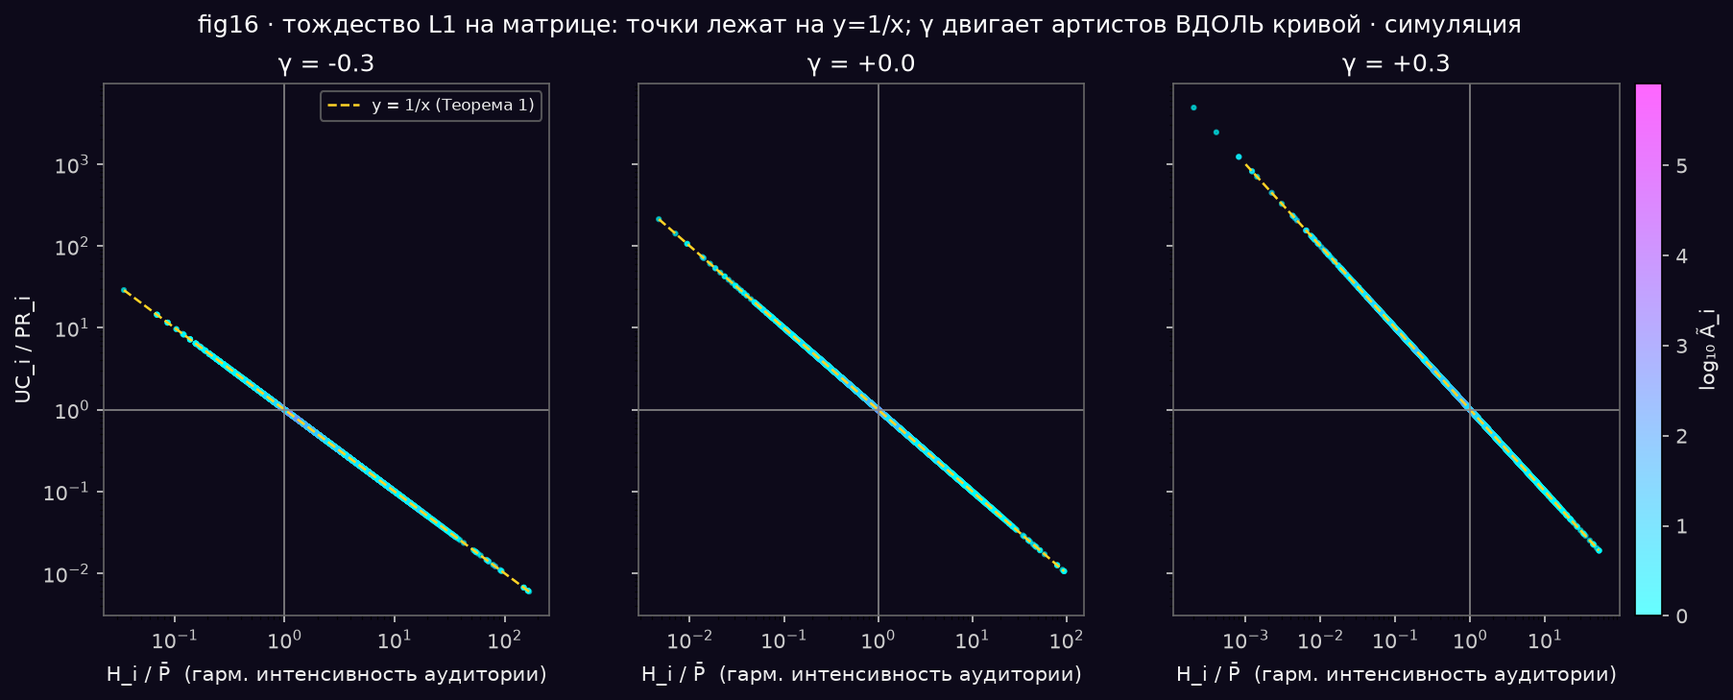
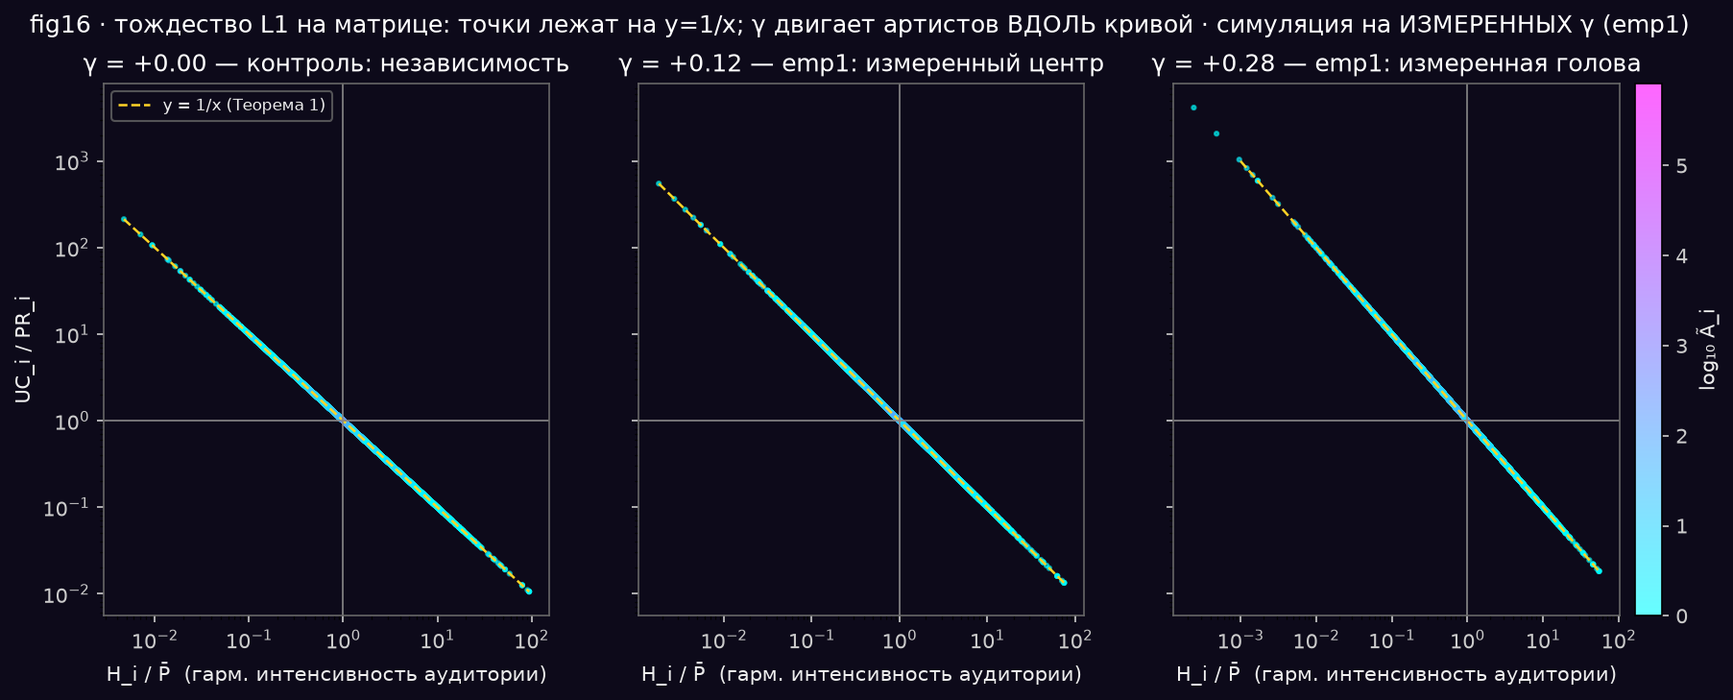
loop closed: sim4 runs on measured gammas + empirical Phase 0 retracts the novelty claim
sim4 v0.4 — gamma grid switched from a symmetric dial {-0.3, 0, +0.3} to
MEASURED values {0, +0.12, +0.28} (emp1): independence control, measured
centre (panel b=+0.101 / attenuation-inversion factor 0.84) and measured
head (local slope at A>=200 = +0.232). SPEC status of gamma: axis ->
measured; negative coupling retracted (never observed empirically).
Result, all gates PASS: share of artists with UC>PR 37.1% -> 45.6% ->
52.8%, among the top 0.28% — 33.9% -> 8.9% -> 3.6%. At the measured
coupling user-centric takes from the head four times harder than the
convenient independence assumption predicts. fig16 redrawn; exports
renamed c_gm03/c_gp03 -> c_g012/c_g028.

emp1/PRIOR_ART.md — empirical Phase 0 (5 scouts, 29 claims, 12 confirmed
verbatim against retrieved primary sources, REFUTED by default when the
source could not be fetched). The "first measurement" claim is RETRACTED:
the effect is the double jeopardy law (Ehrenberg 1972: w(1-b)=const, so
the slope is analytically predicted), measured on the web (Taneja 2020 /
Baumann 2015: 0.191-0.262 over 24,000 domain-months), on Steam, in
weighted networks (Barrat 2004), and described on this very LFM-1b
(Schedl & Hauger 2017: 78.92 -> 22.66 -> 1.99 plays per listener). Our
+0.101 lands inside the Dirichlet prediction (+0.1032, Habel & Rungie
2005) — external validation, not defeat. Narrow claim kept: log-log slope
on user x artist pairs with within-user FE in music, the retention/rate
[…]

diff --git a/sim4/bipartite_gen.py b/sim4/bipartite_gen.py
@@ -18,7 +18,12 @@ PL      = 21.21
 X_HI    = 225_734
 MU_K, SG_K, K_CLIP = np.log(12), 1.0, (1, 2000)
 MU_P, SG_P = np.log(5.16), 1.676
-GAMMAS  = (-0.3, 0.0, +0.3)
+# emp1 (3bf4416): γ измерено — панель b=+0.101 ⟹ модельное γ≈+0.12 (recovery-инверсия
+# ceil-аттенюации 0.84); локальный наклон головы A≥200 → +0.232 ⟹ γ_голова≈+0.28.
+# Сетка: 0 (контроль независимости), +0.12 (измеренный центр), +0.28 (измеренная голова).
+# Прежняя симметричная ручка (−0.3, 0, +0.3) отозвана: отрицательное сопряжение
+# эмпирически не наблюдается ни в одном срезе (emp1/README §Результат).
+GAMMAS  = (0.0, +0.12, +0.28)
 SEED    = 42
 SF, KDON, TAKE = 0.017, 4, 0.80
 MU_G, SG_G = np.log(5.0), 0.8
@@ -147,7 +152,7 @@ gate("G2.4 L1-тождество max|UC/PR − P̄/H|", ident.max(), 0, 1e-9, "{
 gate("G2.5 |ΣUC−ΣPR|/ΣPR", abs(UCb.sum()-PRb.sum())/PRb.sum(), 0, 1e-12, "{:.3e}")
 
 viol = 0
-for tag, M in [("b", M_b)] + [(f"c γ={g:+.1f}", M_c[g]) for g in GAMMAS if g != 0.0]:
+for tag, M in [("b", M_b)] + [(f"c γ={g:+.2f}", M_c[g]) for g in GAMMAS if g != 0.0]:
     PR, UC, H, Pbar, Pi, _ = mechanisms(M)
     m2 = Pi > 0
     r = UC[m2]/PR[m2]
@@ -174,19 +179,20 @@ for g in GAMMAS:
     share = (UC[m2] > PR[m2]).mean()*100
     big = np.argsort(Pi)[::-1][:top]
     share_big = (UC[big] > PR[big]).mean()*100
-    print(f"  γ={g:+.1f}: UC>PR у {share:.1f}% артистов; среди топ-0.28% — {share_big:.1f}%")
+    lbl = {0.0: "контроль", 0.12: "измеренный центр", 0.28: "измеренная голова"}.get(round(g, 2), "")
+    print(f"  γ={g:+.2f} ({lbl}): UC>PR у {share:.1f}% артистов; среди топ-0.28% — {share_big:.1f}%")
 
 # ---------- выгрузка (SPEC §5) ----------
 def dump(M, name):
     sparse.save_npz(os.path.join(DATA, f"matrix_{name}_seed42.npz"), M)
-dump(M_a, "a"); dump(M_b, "b"); dump(M_c[-0.3], "c_gm03"); dump(M_c[+0.3], "c_gp03")
+dump(M_a, "a"); dump(M_b, "b"); dump(M_c[+0.12], "c_g012"); dump(M_c[+0.28], "c_g028")
 coo = M_b.tocoo()
 order = np.lexsort((coo.col, coo.row))
 with open(os.path.join(DATA, "matrix_sample.csv"), "w", newline="") as f:
     wtr = csv.writer(f); wtr.writerow(["user_id","artist_id","plays"])
     for j in order[:10_000]:
         wtr.writerow([int(coo.row[j]), int(coo.col[j]), int(coo.data[j])])
-print(f"выгрузка: data/matrix_{{a,b,c_gm03,c_gp03}}_seed42.npz + matrix_sample.csv (10k троек)")
+print(f"выгрузка: data/matrix_{{a,b,c_g012,c_g028}}_seed42.npz + matrix_sample.csv (10k троек)")
 
 # ---------- fig15 / fig16 (SPEC §6) ----------
 import matplotlib
@@ -231,11 +237,12 @@ for ax, g in zip(axs, GAMMAS):
     ax.plot(xx, 1/xx, color=YELLOW, lw=1.2, ls="--", label="y = 1/x (Теорема 1)")
     ax.axhline(1, color="#888", lw=.8); ax.axvline(1, color="#888", lw=.8)
     ax.set_xscale("log"); ax.set_yscale("log"); styl(ax)
-    ax.set_title(f"γ = {g:+.1f}"); ax.set_xlabel("H_i / P̄  (гарм. интенсивность аудитории)")
+    lbl = {0.0: "контроль: независимость", 0.12: "emp1: измеренный центр", 0.28: "emp1: измеренная голова"}.get(round(g, 2), "")
+    ax.set_title(f"γ = {g:+.2f} — {lbl}"); ax.set_xlabel("H_i / P̄  (гарм. интенсивность аудитории)")
 axs[0].set_ylabel("UC_i / PR_i"); axs[0].legend(facecolor=BG, labelcolor="#EEE", edgecolor="#666", fontsize=8)
 cb = fig.colorbar(sc, ax=axs, fraction=.02, pad=.01); cb.set_label("log₁₀ Ã_i", color="#EEE"); cb.ax.yaxis.set_tick_params(color="#CCC")
 plt.setp(plt.getp(cb.ax.axes, "yticklabels"), color="#CCC")
-fig.suptitle("fig16 · тождество L1 на матрице: точки лежат на y=1/x; γ двигает артистов ВДОЛЬ кривой · симуляция", color="#FFF")
+fig.suptitle("fig16 · тождество L1 на матрице: точки лежат на y=1/x; γ двигает артистов ВДОЛЬ кривой · симуляция на ИЗМЕРЕННЫХ γ (emp1)", color="#FFF")
 fig.savefig(os.path.join(FIGS, "fig16_L1_crossover.png"), dpi=150, facecolor=BG, bbox_inches="tight"); plt.close(fig)
 print("фигуры: figures/fig15_three_mechanisms.png, fig16_L1_crossover.png")
 print("="*72)

diff --git a/emp1/PRIOR_ART.md b/emp1/PRIOR_ART.md
@@ -1,0 +1,143 @@
+# EMP 1 · Фаза 0 — проверка приоритета (что измерено до нас)
+
+Тот же протокол, что и в теоретической Фазе 0 THEORY.md: пять разведчиков
+по областям, академические API прежде веба, каждая заявка «это уже
+измерено» проходит состязательную верификацию по ДОБЫТОМУ первоисточнику;
+при недоступности полного текста — дефолт REFUTED. Итог: 29 заявок,
+**12 подтверждено дословно** (1 identical + 11 near), 16 не подтверждено
+(источник не добыт — не засчитываем), 1 снята самим разведчиком.
+
+## Вердикт: заявка «первое измерение» ОТОЗВАНА
+
+Сопряжение интенсивности потребления с размером аудитории — известный
+эмпирический закон с 1969 года (**double jeopardy**), у него есть
+аналитическая форма, он измерен в вебе, в играх, в сетях и описан на том
+же самом LFM-1b. Формулировка «первое измерение γ» несостоятельна и
+заменена на узкую (см. «Что остаётся нашим»).
+
+## Что уже измерено — подтверждено по первоисточникам
+
+**1. Аналитическая форма — Ehrenberg (Repeat Buying, 1972; формула
+Goodhardt & Chatfield).** Дословно: «Double Jeopardy … was first described
+by the approximate formula w(1−b) = a constant for the product field, where
+w is the number of purchases per buyer … and b is the proportion of the
+population purchasing that brand». Отсюда наклон интенсивности по
+проникновению выводится аналитически: d log w / d log b = b/(1−b), он
+положителен и выпукл. То есть величина не только измерялась, но и
+предсказывалась моделью — за полвека до нас.
+
+**2. Наши числа попадают в предсказание Dirichlet-модели — Habel & Rungie
+(2005, Marketing Bulletin 16, TN1).** Из их Table 1 (γ=1, β=1, S=2)
+лог-лог наклоны частоты по проникновению: полный диапазон **+0.1032**,
+локально на хвосте **+0.0154**, локально на голове **+0.5814**. Наши
+измеренные: панель **+0.101**, beyond-mainstream **+0.023**, голова
+**+0.232**. Совпадение полного диапазона — до третьего знака. Их же вывод
+о нелинейности («demonstrates the nonlinearity of the effect as brands
+approach high levels of penetration») — это ровно наш структурный факт 3
+(наклон выпуклый, у головы круче), только выведенный теоретически.
+На наблюдаемых данных (выписка антидепрессантов, 8 брендов) они дают
+наклон +0.392 (Dirichlet-подгонка +0.342).
+
+**3. Та же регрессия в цифровых медиа — Taneja (2020, J. Advertising
+Research 60(3); числовые наклоны — в диссертации Baumann 2015 под его
+руководством).** comScore Media Metrix, top-2000 доменов США, 12 месячных
+срезов, N = 24 000 домен-месяцев. Спецификация: log10(интенсивность на
+пользователя) на log10(unique visitors) + дамми категорий и месяцев —
+структурно наша регрессия. Результат: **β = 0.262** (минуты/посетитель,
+t = 33.07), **β = 0.191** (страницы/посетитель); корреляции по срезам:
+голова 0.5478, хвост 0.0155. Критично: с контролем на число визитов
+наклон падает до **0.083** — это их аналог нашего разложения
+(удержание +0.254 / частота-в-день −0.154): как только зафиксирована
+частота посещений, остаточный эффект размера почти исчезает.
+
+**4. На нашем датасете это уже показано описательно — Schedl & Hauger
+(2017, IJMIR 6(1), LFM-1b).** Дословно: «the top-played artist is on
+average listened to 78.92 times per user, while the 1,000th most popular
+artist is listened to only 22.66 times per user … the 100,000 least
+popular artists are played only 1.99 times on average». Их Fig. 2 — обе
+наши оси на одном графике (плейкаунт и число слушателей по рангу
+артиста, лог-лог). Наши PL = 21.21 и медиана 5.16 взяты из их Table 6.
+Это тот же датасет и та же связь — но как ранговая описательная
+статистика, без регрессии, без FE и без наклона как коэффициента.
+
+**5. На стриминговых данных с UC-разложением — Moreau, Wikström,
+Haampland & Johannessen (2024, Inf. Econ. & Policy 68:101103).**
+154 505 пользователей норвежской платформы, 890 млн стримов. Их Table A1
+(«Regressions correlating audience listening intensity and concentration
+with song characteristics», N = 26 022 572): популярность артиста
+Rank1–10 даёт коэффициент интенсивности **1.284*** против референсной
+группы Rank101–1k, Rank>10k — **0.898***. Это наша связь на кассовых
+данных, в ранговых дамми вместо непрерывного наклона, и уже в контексте
+user-centric.
+
+**6. Методологический близнец вне музыки — Šulik (2026, Marketing
+Letters), Steam.** ~109M пользователей, 2 350 игр: penetration против
+user-level SCR, лог-ось, бины по квантилям — почти наш дизайн.
+ρ = 0.215–0.281 с бутстрап-CI (Action, Strategy, RPG), Simulation и
+Adventure неопределённы.
+
+**7. Формальная рамка — Barrat, Barthélemy, Pastor-Satorras & Vespignani
+(2004, PNAS 101(11)).** Взвешенные сети: s(k) ~ k^β и ⟨w_ij⟩ ~ (k_i k_j)^θ
+с тождеством β = 1 + θ. Наш b — это в точности θ для двудольного графа
+user×artist. Их числа: авиасеть θ = 0.5 ± 0.1, сеть соавторства θ ≈ 0
+(«⟨w_ij⟩ is almost constant for over two decades»). Наши +0.10…+0.23 лежат
+между этими полюсами.
+
+**8. Прочее подтверждённое (фон).** Excess Loyalty in CPG Markets (JEMS
+14(1)): доля рынка положительно связана с избыточной лояльностью в 361 из
+422 категорий (86%). Danaher, Wilson & Davis (2003, Marketing Science
+22(4)): онлайн — избыточная лояльность крупных брендов (коэффициент
+0.316, p<0.001), офлайн — связи нет; структурно это наша выпуклость.
+Goel, Broder, Gabrilovich & Pang (2010, WSDM), Yahoo! Music + Netflix:
+DJ на фильмах есть, а в музыке средний рейтинг U-образен — знак ПРОТИВ
+нашего, но метрика другая (декларируемый рейтинг, не прослушивания).
+
+## Что остаётся нашим (узкая заявка)
+
+1. **Лог-лог наклон на уровне пар user×artist в музыке с within-user
+   фиксированными эффектами.** Schedl & Hauger дают ранговые средние по
+   тому же датасету, Moreau et al. — ранговые дамми на кассовых данных;
+   непрерывного наклона с FE и кластерными SE в музыкальном домене мы не
+   нашли ни у кого.
+2. **Разложение наклона на удержание и частоту-в-день по таймстемпам**
+   (+0.254 / −0.154). Ближайший аналог — контроль на визиты у Taneja
+   (падение 0.262 → 0.083); разложения как отдельного результата с
+   раздельными наклонами в найденной литературе нет.
+3. **Калибровка под параметр модели выплат.** Инверсия аттенюации
+   оценщика на собственном DGP (recovery-тест: ceil съедает 16%, фактор
+   0.84 ⟹ модельное γ ≈ +0.12) и подстановка в sim4 с ответом «какой доле
+   артистов и какой доле топа выгоден user-centric». Это единственное
+   место, где мы делаем то, чего в DJ-литературе нет по постановке
+   задачи: она описывает закон, мы превращаем его в число внутри модели
+   выплат.
+4. **Чувствительность к окну учёта в контексте месячных UC-пулов**
+   (панель +0.101 / год +0.068 / месяц +0.048) и разбивка по
+   mainstream/beyond (+0.160 / +0.023).
+
+## Как теперь формулировать публично
+
+**Нельзя:** «мы первыми измерили сопряжение интенсивности с размером».
+**Можно:** «мы измерили double jeopardy на музыкальных парах
+user×artist и откалибровали его как параметр модели выплат — наш
+панельный наклон +0.101 попадает в предсказание Dirichlet-модели
+(+0.1032, Habel & Rungie 2005) и в коридор веб-измерений (+0.19…+0.26,
+Taneja 2020), а его подстановка в sim4 даёт ответ, которого в
+DJ-литературе нет: при измеренном сопряжении user-centric отбирает у
+верхних 0.28% артистов вчетверо жёстче, чем при удобном допущении
+независимости».
+
+Это сильнее исходной заявки: результат перестал быть одиноким числом и
+стал независимым подтверждением полувекового закона в новом домене плюс
+его первым переводом в экономику выплат.
+
+## Каверзы (внесены в оговорки emp1/README и SPEC)
+
+- Числовые наклоны Taneja цитируем по диссертации Baumann (2015),
+  опубликованная статья JAR 2020 закрыта — её таблицы мы не видели;
+  за статьёй закрепляем только качественный вывод из абстракта.
+- Полный текст Moreau et al. (2024) добыт частично (ScienceDirect режет
+  ботов; эскалации в очереди hyperresearch) — коэффициенты Table A1
+  сверены по индексированным фрагментам, не по PDF в руках.
+- 16 заявок не подтверждены только потому, что первоисточник не добыт;
+  это не «опровергнуто» — при доступе к ним картина приоритета может
+  стать ещё плотнее.

diff --git a/emp1/README.md b/emp1/README.md
@@ -1,7 +1,13 @@
-# EMP 1 — редуцированный наклон b (прокси γ): знак измерен, уровень структурирован
+# EMP 1 — редуцированный наклон b (прокси γ): double jeopardy на музыкальных парах, откалиброванный под модель выплат
 
-Первое эмпирическое число спора — с честной структурой вместо точечного
-заголовка. Измеряемый объект (переименован red team, находка C14): **b —
+Первое эмпирическое ЧИСЛО НАШЕЙ МОДЕЛИ — но не первое измерение эффекта:
+Фаза 0 ([PRIOR_ART.md](PRIOR_ART.md)) показала, что сопряжение
+интенсивности с размером аудитории известно как **double jeopardy** с 1969
+года, имеет аналитическую форму (Ehrenberg 1972) и измерено в вебе
+(Taneja 2020: +0.19…+0.26), в играх, в сетях и описательно на том же
+LFM-1b (Schedl & Hauger 2017). Заявка «первое измерение» ОТОЗВАНА; что
+остаётся нашим — в PRIOR_ART §«Что остаётся нашим». Измеряемый объект
+(переименован red team, находка C14): **b —
 редуцированный наклон E[log p_iu | i] по log A_i** в панели Last.fm
 2005–2014. Это ПРОКСИ структурного γ из sim4(c) (интенсивность при
 фиксированном графе): наклон ловит и интенсивность, и селекцию графа, и
@@ -59,17 +65,33 @@ ceil-дискретизация съедает ~16% наклона, фактор
 панельному b = +0.101 соответствует **модельное γ ≈ +0.12**. В sim4
 подставлять +0.12 (центр) и ~+0.3 (голова), не сырое +0.1.
 
+## Внешняя валидация (Фаза 0)
+
+Наш панельный +0.101 попадает в предсказание Dirichlet-модели для
+полного диапазона проникновения (+0.1032, Habel & Rungie 2005, Table 1) и
+в коридор независимых измерений в цифровых медиа (+0.191…+0.262, Taneja
+2020 / Baumann 2015, N = 24 000 домен-месяцев). Наш beyond-mainstream
++0.023 совпадает с их хвостовым локальным наклоном +0.0154, наша голова
++0.232 — с их головным режимом (корреляция головы 0.5478 против хвоста
+0.0155). Их падение наклона при контроле на частоту визитов (0.262 →
+0.083) — независимое подтверждение нашего разложения на удержание и
+частоту-в-день. Полный разбор приоритета: [PRIOR_ART.md](PRIOR_ART.md).
+
 ## Что это значит для спора о user-centric
 
 В датированной форме: в панели Last.fm 2005–2014 сопряжение
 интенсивности с размером было слабо положительным глобально (b ≈ +0.1,
 через удержание) и заметно положительным на голове (локально ≈ +0.2–0.3).
-На sim4-шкале (γ=0 → UC выгоден 37% артистов, треть топа; γ=+0.3 → 53%,
-топ 3.6%) реальный мир НЕ сидит в одной точке: для массы артистов — ближе
-к γ≈+0.1, для головы — ближе к γ≈+0.3, где топ от user-centric почти
-никогда не выигрывает. Направление «перераспределение от головы при
-UC-реформе сильнее, чем при γ=0» — гипотеза до прогона sim4 с γ=+0.12 и
-+0.3 (кандидат в следующий шаг), не следствие теории. Сегодняшний
+Петля замкнута: sim4 перегнан НА ИЗМЕРЕННЫХ γ (v0.4, сетка
+{0, +0.12, +0.28} вместо симметричной ручки), результат — доля артистов с
+UC>PR (в скобках — среди топ-0.28%): контроль независимости γ=0 →
+**37.1% (33.9%)**; измеренный центр γ=+0.12 → **45.6% (8.9%)**;
+измеренная голова γ=+0.28 → **52.8% (3.6%)**. Гипотеза
+«перераспределение от головы при UC сильнее, чем при γ=0» ПОДТВЕРЖДЕНА
+прогоном: доля топа, выигрывающего от user-centric, падает вчетверо
+(33.9% → 8.9%) уже на центральном измеренном значении, а на хвостовом —
+почти в десять раз (3.6%). Одновременно UC выгоден большей массе
+артистов (37.1% → 45.6% → 52.8%). Оговорка о времени в силе: сегодняшний
 (2026) уровень b может отличаться — эпоха данных доалгоритмическая; это
 довод отдать измерение MVP, не против измерения.
 

diff --git a/sim4/SPEC.md b/sim4/SPEC.md
@@ -1,4 +1,4 @@
-# SIM 4 — синтетическая двудольная матрица user×artist · SPEC v0.3
+# SIM 4 — синтетическая двудольная матрица user×artist · SPEC v0.4
 ### Общий субстрат: калиброванная разреженная p_iu с режимами-переключателями сопряжённости · Tonify Research · август 2026
 
 Спека ДО кода (урок sim1 v1.1). Уравнения ниже — контракт для
@@ -26,7 +26,7 @@
 | U (слушатели) | ⌈Σℓ_i / E[K_u]⌉ | derived | баланс пар с двух сторон |
 | Выбор артистов в S_u | Gumbel top-K_u, вес w_i ∝ ℓ_i, без повторений | assumed (механизм) | preferential attachment; точный weighted-without-replacement |
 | Пара-интенсивность | LN(ln 5.16, 1.676) | measured-с-оговоркой | LFM-1b median 5.16 / mean 21.21 |
-| γ (сопряжённость) | {−0.3, 0, +0.3} | ось | ручка THEORY §5.2 / §9 п.3 |
+| γ (сопряжённость) | {0, +0.12, +0.28} | **measured** (emp1) | не ручка, а измерение: emp1 даёт панельный наклон b=+0.101 ⟹ γ≈+0.12 после recovery-инверсии ceil-аттенюации (0.84), и локальный наклон головы A≥200 +0.232 ⟹ γ_голова≈+0.28; γ=0 — контроль независимости |
 | σ, k, ḡ, τ (fig15 direct) | 0.017, 4, LN(ln5,0.8), 0.80 | как sim1 | SPEC sim1 §1 |
 | seed | 42 | канон | детерминизм |
 
@@ -60,7 +60,8 @@ PL=const именно на этой вершине (см. §4 ворота и TH
   интенсивности с размером — ИЗМЕРЯЕТСЯ и печатается
   (corr(log A_i, log средней p_iu)), не прячется.
 - (c) COUPLED: p_iu = ⌈LN(ln5.16,1.676) · (A_i/gm)^γ⌉, gm = геом. среднее
-  A_i, γ ∈ {−0.3, +0.3}; γ=0 = (b) до рескейла (среднее полотно fig16).
+  A_i, γ ∈ {+0.12, +0.28} — ИЗМЕРЕННЫЕ значения (emp1, v0.4); γ=0 = (b) до
+  рескейла (контроль независимости, средняя панель fig16).
   Без рескейла: γ живёт в стримах — ворота мира к (c) НЕ применяются
   (задекларировано), это лаборатория сопряжённости.
 
@@ -87,7 +88,7 @@ Bin(Ã_i, σ) суперфанов × k платежей × LN-чек × τ.
 
 ## 5. Выгрузка
 
-data/matrix_{a,b,c_gm03,c_gp03}_seed42.npz — scipy.sparse CSR (плэи;
+data/matrix_{a,b,c_g012,c_g028}_seed42.npz — scipy.sparse CSR (плэи;
 режим a — float64, прочие int32) + data/matrix_sample.csv (первые 10 000
 ненулевых троек user_id, artist_id, plays режима b) + data/README.md
 (формат, load_matrix(), пример 10 строк). data/ в .gitignore — артефакты
@@ -97,7 +98,8 @@ data/matrix_{a,b,c_gm03,c_gp03}_seed42.npz — scipy.sparse CSR (плэи;
 
 fig15: гистограммы дохода PR / UC / direct(k=4) на матрице (b), лог-оси,
 подпись «симуляция (матрица b, seed 42)». fig16: UC_i/PR_i против H_i/P̄,
-три панели γ ∈ {−0.3, 0, +0.3}, линия кроссовера y=1, x=1; точки на
+три панели γ ∈ {0, +0.12, +0.28} (контроль / измеренный центр /
+измеренная голова), линия кроссовера y=1, x=1; точки на
 кривой y = 1/x — визуальная проверка тождества L1; цвет = log₁₀ Ã_i.
 Подпись направления шкалы проверяется после генерации (регламент viz).
 
@@ -121,6 +123,14 @@ N=20 000 — всё ещё редукция реального каталога 
 для ворот G1 это неважно (UC/PR инвариантно к масштабу p).
 
 ## CHANGELOG
+- v0.4 (замыкание петли на измерении, 2026-08-15): γ-сетка сменена с
+  симметричной ручки {−0.3, 0, +0.3} на ИЗМЕРЕННЫЕ значения
+  {0, +0.12, +0.28} (emp1, коммит 3bf4416): панельный наклон b=+0.101
+  ⟹ γ≈+0.12 после recovery-инверсии ceil-аттенюации (фактор 0.84);
+  локальный наклон головы A≥200 = +0.232 ⟹ γ_голова≈+0.28. Отрицательное
+  сопряжение отозвано — не наблюдается ни в одном эмпирическом срезе
+  (два датасета, 27 порогов, окна, группы юзеров). Статус γ в таблице §1:
+  ось → **measured**. Имена выгрузок: c_gm03/c_gp03 → c_g012/c_g028.
 - v0.3 (второй проход red team, 2026-08-14): основной текст синхронизирован
   с v0.2 (таблица §1 и §2 говорили N=5 000 и вещественный контроль C/K_u —
   противоречили собственному CHANGELOG); «медианной» → «средней» в

diff --git a/CHANGELOG.md b/CHANGELOG.md
@@ -1,9 +1,35 @@
 # Changelog
 
-## unreleased — emp1: reduced-form slope b, the dispute's first measured number (2026-08-15)
+## unreleased — loop closed: sim4 runs on measured gammas + empirical Phase 0 (2026-08-15)
 
-- **emp1/** — первое эмпирическое измерение сопряжения интенсивности с
-  размером аудитории (прокси γ из sim4(c)) по открытым логам Last.fm
+- **sim4 v0.4** — γ-сетка сменена с симметричной ручки {−0.3, 0, +0.3} на
+  ИЗМЕРЕННЫЕ значения {0, +0.12, +0.28} (emp1): контроль независимости,
+  измеренный центр (панельный b=+0.101 / фактор инверсии 0.84) и
+  измеренная голова (локальный наклон A≥200 = +0.232). Статус γ в SPEC:
+  ось → **measured**. Отрицательное сопряжение отозвано — эмпирически не
+  наблюдается. Результат (все ворота PASS): доля артистов с UC>PR
+  37.1% → 45.6% → 52.8%, среди топ-0.28% — **33.9% → 8.9% → 3.6%**: при
+  измеренном сопряжении user-centric отбирает у головы вчетверо жёстче,
+  чем при удобном допущении независимости. fig16 перерисован на
+  измеренных γ; выгрузки c_gm03/c_gp03 → c_g012/c_g028.
+- **emp1/PRIOR_ART.md** — Фаза 0 по эмпирической стороне (5 разведчиков,
+  29 заявок, 12 подтверждено дословно по добытым первоисточникам, дефолт
+  REFUTED при недоступности). Заявка «первое измерение» ОТОЗВАНА: эффект
+  известен как double jeopardy с 1969, аналитическая форма w(1−b)=const
+  (Ehrenberg 1972), измерен в вебе (Taneja 2020: +0.191…+0.262 на 24 000
+  домен-месяцев), в играх (Steam, Šulik 2026), в сетях (Barrat 2004:
+  ⟨w⟩~(k_i k_j)^θ) и описан на том же LFM-1b (Schedl & Hauger 2017:
+  78.92 → 22.66 → 1.99 плэев на слушателя). Наш +0.101 попадает в
+  предсказание Dirichlet-модели (+0.1032, Habel & Rungie 2005) — это
+  внешняя валидация, а не поражение. Узкая заявка: лог-лог наклон на
+  парах user×artist с within-user FE в музыке, разложение на
+  удержание/частоту, и калибровка эффекта под параметр модели выплат.
+
+## emp1: reduced-form slope b (2026-08-15)
+
+- **emp1/** — эмпирическое измерение сопряжения интенсивности с размером
+  аудитории (прокси γ из sim4(c); заявка о первенстве отозвана Фазой 0 —
+  см. запись выше и emp1/PRIOR_ART.md) по открытым логам Last.fm
   (LFM-BeyMS, Zenodo DOI, md5-verified + 360K snapshot; LFM-1b/2b
   officially withdrawn). Знак b > 0 железный (два датасета × два
   оценщика × 27 порогов × окна × группы; плацебо ~0); уровень

diff --git a/data/README.md b/data/README.md
@@ -8,8 +8,8 @@
 |---|---|
 | `matrix_a_seed42.npz` | (a) эргодический контроль: `P_u ≡ 2048`, целые |
 | `matrix_b_seed42.npz` | (b) гетерогенный: LN-полотно, рескейл к мишеням `s_i` (суммо-точный) |
-| `matrix_c_gm03_seed42.npz` | (c) сопряжение γ = −0.3 |
-| `matrix_c_gp03_seed42.npz` | (c) сопряжение γ = +0.3 |
+| `matrix_c_g012_seed42.npz` | (c) сопряжение γ = +0.12 — измеренный центр (emp1) |
+| `matrix_c_g028_seed42.npz` | (c) сопряжение γ = +0.28 — измеренная голова (emp1) |
 | `matrix_sample.csv` | первые 10 000 троек `(user_id, artist_id, plays)` режима (b) |
 
 `.npz` не в гите (~сотни МБ) — генерируются `python3 sim4/bipartite_gen.py`
@@ -21,7 +21,7 @@
 from scipy import sparse
 
 def load_matrix(mode="b", path="data"):
-    """CSR user×artist; mode ∈ {'a','b','c_gm03','c_gp03'}."""
+    """CSR user×artist; mode ∈ {'a','b','c_g012','c_g028'}."""
     return sparse.load_npz(f"{path}/matrix_{mode}_seed42.npz")
 ```
 
